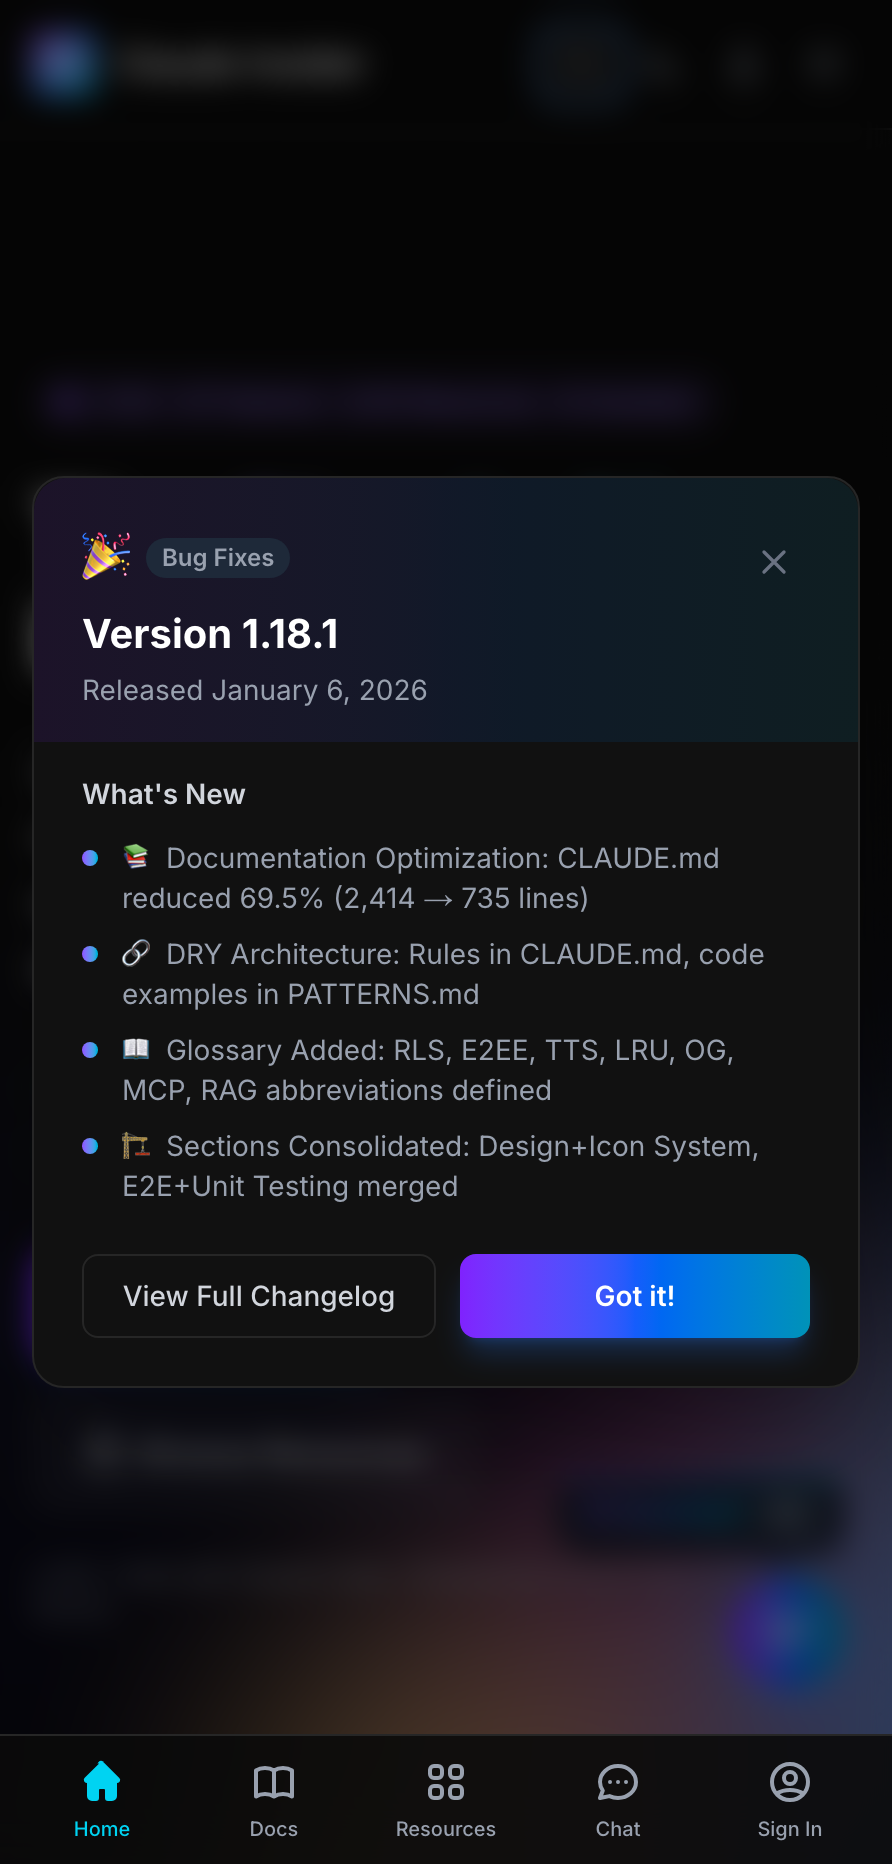
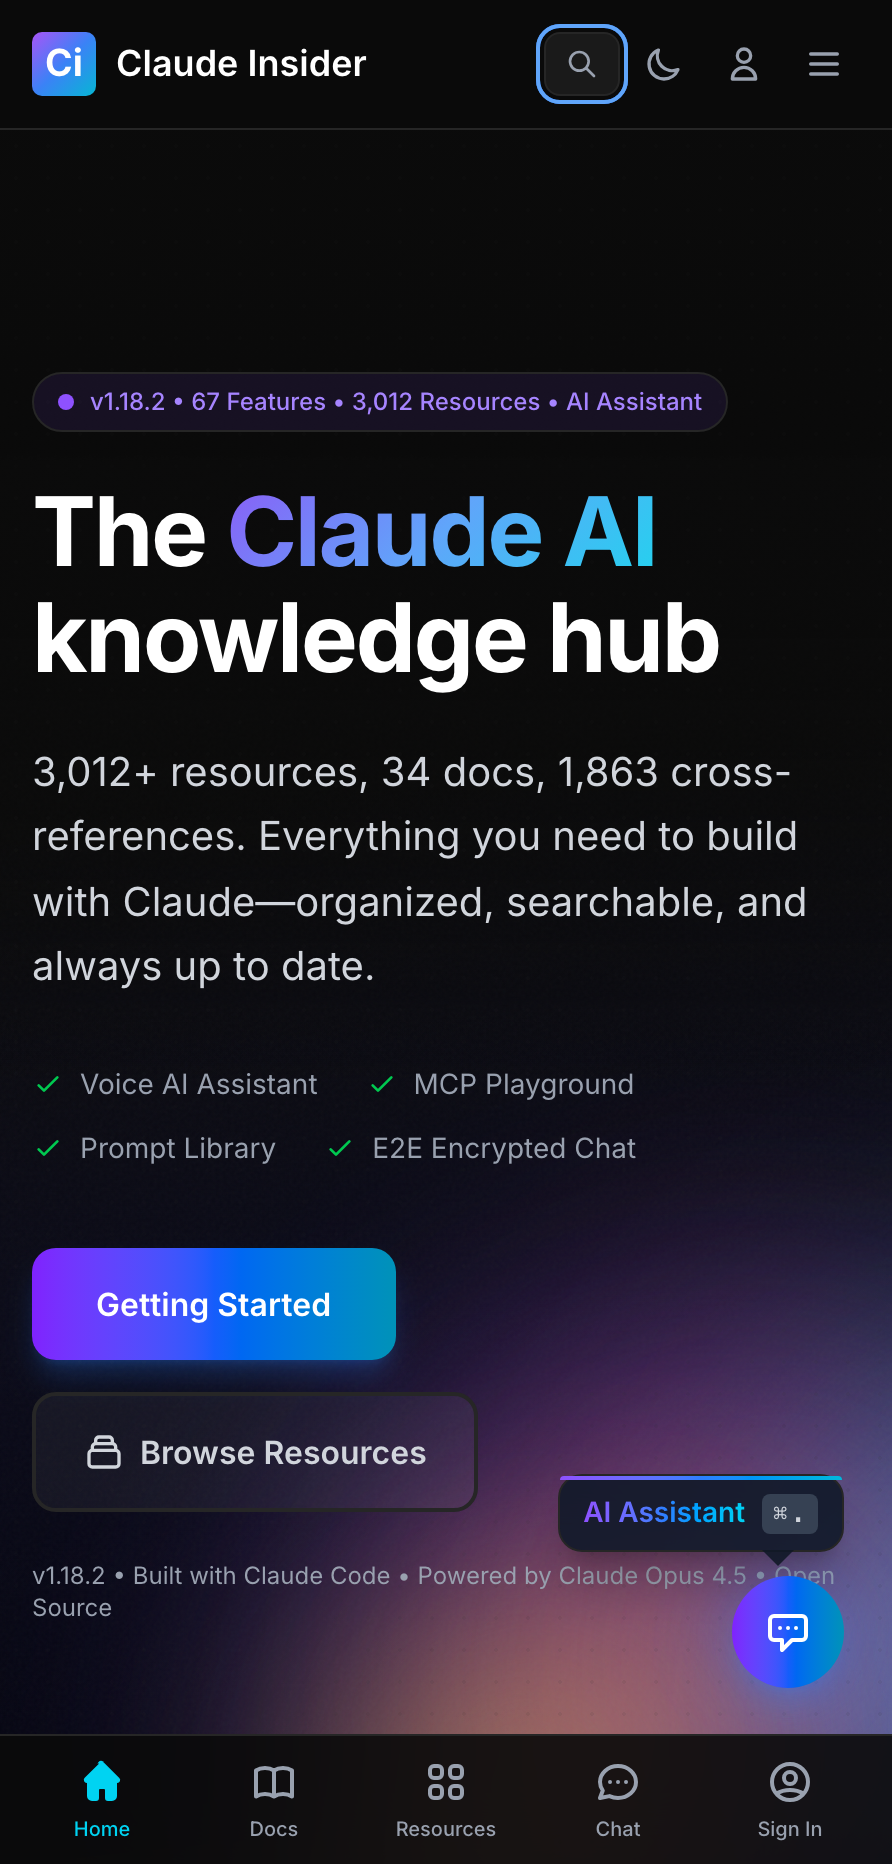
chore: update mobile device mockup screenshot
- Update MacBookTerminalContent to show v1.18.2 with 71 features
- Update feature highlights: Sentry Admin Dashboard, 57+ Unit Tests
- Update RAG to v8.0 (9,043 terms), Resources to 3,035+
- Capture fresh mobile screenshot with dark theme
- Add take-mobile-screenshot.mjs utility for future updates

🤖 Generated with [Claude Code](https://claude.com/claude-code)

diff --git a/apps/web/components/device-mockups.tsx b/apps/web/components/device-mockups.tsx
@@ -283,7 +283,7 @@ export function IPhone17ProMax({
 }
 
 /**
- * Realistic terminal content showing Claude Insider v1.16.2
+ * Realistic terminal content showing Claude Insider v1.18.2
  */
 function MacBookTerminalContent() {
   return (
@@ -311,11 +311,11 @@ function MacBookTerminalContent() {
         <div className="mt-1">
           <span className="text-[#a371f7]">╭─</span>
           <span className="text-[#7ee787]"> Claude Insider</span>
-          <span className="text-[#8b949e]"> v1.16.2</span>
+          <span className="text-[#8b949e]"> v1.18.2</span>
         </div>
         <div>
           <span className="text-[#a371f7]">│</span>
-          <span className="text-[#8b949e]"> Features: 61 • Resources: 3,012+</span>
+          <span className="text-[#8b949e]"> Features: 71 • Resources: 3,035+</span>
         </div>
         <div>
           <span className="text-[#a371f7]">╰─</span>
@@ -323,11 +323,11 @@ function MacBookTerminalContent() {
         </div>
 
         <div className="mt-2 space-y-[3px]">
-          <div className="text-[#7ee787]">✓ MCP Playground (config builder)</div>
-          <div className="text-[#7ee787]">✓ 2,136+ MCP Server Templates</div>
+          <div className="text-[#7ee787]">✓ Sentry Admin Dashboard</div>
+          <div className="text-[#7ee787]">✓ 57+ Unit Tests (Vitest)</div>
           <div className="text-[#7ee787]">✓ E2EE Matrix Protocol</div>
           <div className="text-[#7ee787]">✓ 50+ Achievements</div>
-          <div className="text-[#7ee787]">✓ RAG v7.0 (6,983 chunks)</div>
+          <div className="text-[#7ee787]">✓ RAG v8.0 (9,043 terms)</div>
         </div>
 
         <div className="mt-2 flex items-center gap-1">
